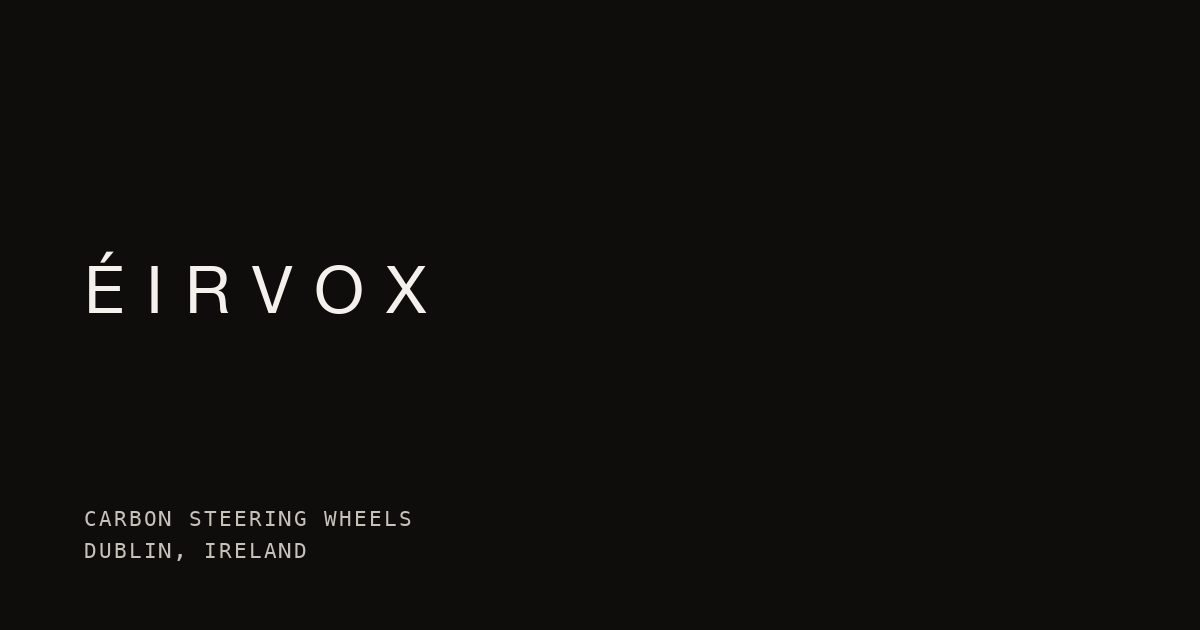
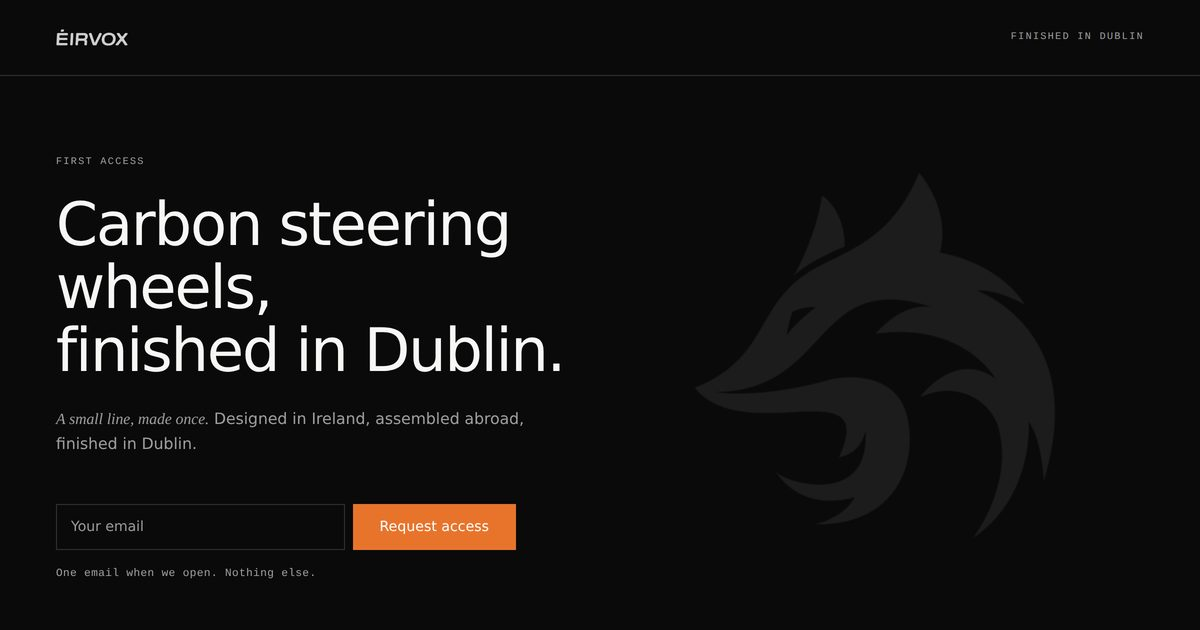
Capture Vendr and Éirvox past their gates
Both cards were showing a gate rather than the work.

Vendr defaults to PUBLIC_SITE_MODE=coming_soon, so the grab was its teaser.
Its page component already accepts ?preview=live, which renders LiveHome.
Captured that instead: wordmark and nav on the off white ground, "a quieter
form of retail", and the approach, placement and Spring 2026 status line.

Éirvox would not render at all because its bootstrap needs Supabase. It
does not need it for this: the app exposes /#/coming-soon as an
always-reachable gate page that renders without credentials. Captured
that: the fox mark, "carbon steering wheels, finished in Dublin", and the
first-access capture. That was the last legacy og image on the site, so
all four cards are now real screenshots.

Both bypasses use the app's own mechanism, no patching. Copy follows what
the pages actually say: Vendr is no longer described as pre-launch, and
Éirvox is carbon steering wheels rather than a general marketplace.

Known limit, documented: no outbound network here, so Google Fonts fall
back. Éirvox's headline renders in a system grotesque rather than Inter
Tight. The other three use no webfonts.

Claude-Session: https://claude.ai/code/session_019WrpS6jkpRWjfV3syLupkp

diff --git a/README.md b/README.md
@@ -79,28 +79,35 @@ If something is not in that file, it does not belong on a page.
 
 ## Where the project images came from
 
-Each card is a screenshot of that site's own current build, taken by cloning
-the repository, building it and capturing the rendered page at 1200x630. Not
-the repositories' stored `og` images, which were out of date.
+Each card is a screenshot of that site's own current build: clone the repo,
+`npm ci && npm run build`, serve the output, capture at a 1200x630 viewport at
+2x. Not the repositories' stored `og` images, which were out of date.
 
-| Card | Built from |
-|:--|:--|
-| `img/projects/vendr.jpg` | `Vantaneant-International-Ltd/vendr`, SvelteKit |
-| `img/projects/maisonseul.jpg` | `Vantaneant-International-Ltd/maisonseul`, SvelteKit |
-| `img/projects/spacexplorer.jpg` | `renatogusani/SpaceXplorer`, Jekyll |
+| Card | Built from | Route captured |
+|:--|:--|:--|
+| `vendr.jpg` | `Vantaneant-International-Ltd/vendr`, SvelteKit | `/?preview=live` |
+| `eirvox.jpg` | `Vantaneant-International-Ltd/eirvox`, Vite + Svelte | `/#/coming-soon` |
+| `maisonseul.jpg` | `Vantaneant-International-Ltd/maisonseul`, SvelteKit | `/` |
+| `spacexplorer.jpg` | `renatogusani/SpaceXplorer`, Jekyll | `/` |
 
-Vendr's consent notice is hidden for the capture. It is chrome, not design.
+Two gates are bypassed deliberately, using each app's own mechanism rather
+than a patch:
 
-**`img/projects/eirvox.jpg` is the exception and is still the repository's
-`public/og-image.png`.** That app will not boot without Supabase credentials
-and its bootstrap also needs outbound network, so it cannot be rendered the
-same way. Replace it with a real screenshot of eirvox.ie.
+- Vendr defaults to `PUBLIC_SITE_MODE=coming_soon`. Its page component accepts
+  `?preview=live`, which renders `LiveHome` instead of the teaser.
+- Éirvox will not boot without Supabase credentials, but it exposes
+  `/#/coming-soon` as an always-reachable gate page that renders without them.
+
+Vendr's consent notice (`aside.cb`) is hidden for the capture. It is chrome,
+not design.
+
+Caveat: this environment has no outbound network, so any webfont a site pulls
+from Google Fonts falls back. Éirvox (Inter Tight, JetBrains Mono, Newsreader)
+is the one affected; its headline renders in a system grotesque rather than
+Inter Tight. Vendr, Maison Seul and SpaceXplorer are unaffected.
 
 The small row marks in `img/marks/` are each repository's `favicon.svg`, plus
 Éirvox's `public/brand/symbol.png`.
-
-To refresh a card: clone the repo, `npm ci && npm run build`, serve the output,
-and screenshot at a 1200x630 viewport at 2x.
 
 ## SEO
 

diff --git a/projects.md b/projects.md
@@ -20,14 +20,14 @@ redirect_from:
   - /projects/statistical_analyses/
 ventures:
   - name: Vendr
-    meta: "vendr.ie · Premium managed vending, pre-launch"
+    meta: "vendr.ie · Premium managed vending for workplaces"
     image: /assets/img/projects/vendr.jpg
-    alt: "The Vendr site: the wordmark in white on black, an email field, and the line: one message when we open, no noise. Marked pre-launch, Spring 2026."
+    alt: "The Vendr site: the wordmark and nav on an off white ground, above the line: a quieter form of retail, a short Irish first list, machines that simply work. Below it, approach Irish first, placement workplaces and hospitality, launching Spring 2026."
     url: https://vendr.ie
   - name: Éirvox
-    meta: "eirvox.ie · Carbon steering wheels and curated goods"
+    meta: "eirvox.ie · Carbon steering wheels, finished in Dublin"
     image: /assets/img/projects/eirvox.jpg
-    alt: "The ÉIRVOX wordmark letterspaced in off white on black, above the line: carbon steering wheels, Dublin, Ireland."
+    alt: "The ÉIRVOX site: the headline carbon steering wheels, finished in Dublin, over a large fox mark on black, with an email field marked first access."
     url: https://eirvox.ie
   - name: Maison Seul
     meta: "maisonseul.com · House of absence, unlaunched"
@@ -55,7 +55,8 @@ VNTA Group
 I lead strategy, brand and engineering direction across Vendr, Éirvox and
 Maison Seul, on shared infrastructure so each scales on common foundations
 while keeping its own identity. Vendr treats the machine as infrastructure
-rather than retail. Éirvox is built for discovery and considered buying.
+rather than retail, launching in Ireland in Spring 2026. Éirvox makes a small
+line of carbon steering wheels, designed in Ireland and finished in Dublin.
 Maison Seul is deliberately quiet, and has not launched.
 
 SpaceXplorer

diff --git a/work.md b/work.md
@@ -12,7 +12,7 @@ ventures:
     ext: true
     mark: /assets/img/marks/vendr.png
   - name: Éirvox
-    meta: "eirvox.ie · A curated marketplace for premium goods · since October 2025"
+    meta: "eirvox.ie · Carbon steering wheels, finished in Dublin · since October 2025"
     url: https://eirvox.ie
     ext: true
     mark: /assets/img/marks/eirvox.png
